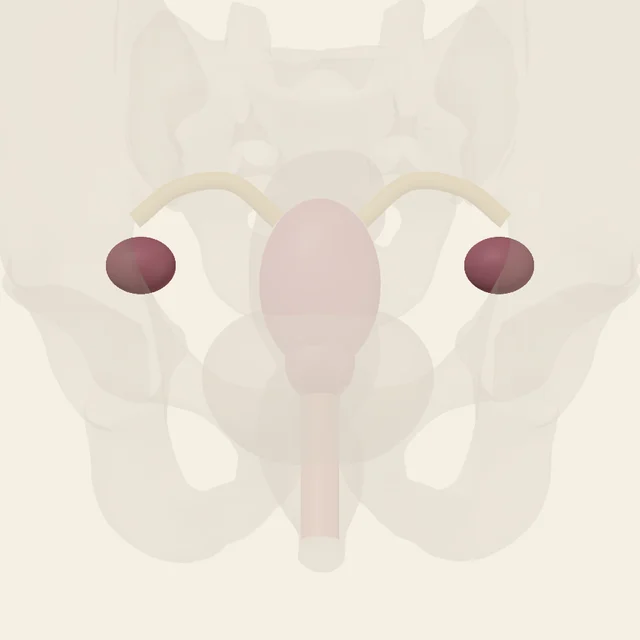
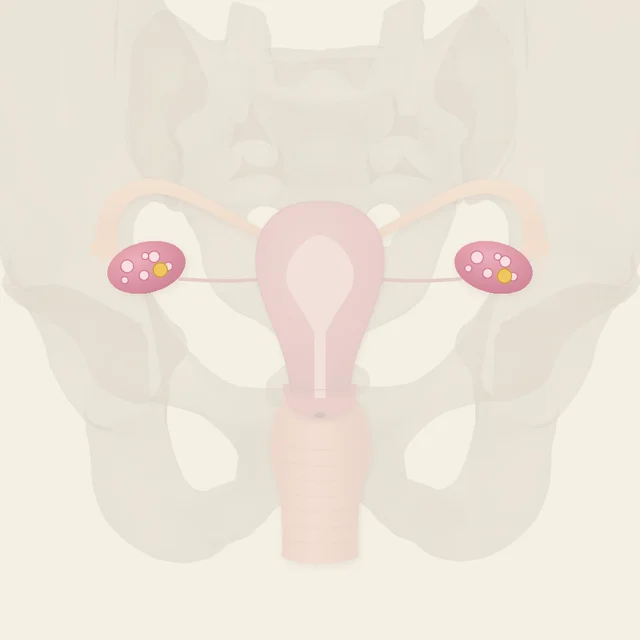
Aparato reproductor: aparato femenino rehecho como ilustración anatómica (útero con cavidad, trompas con fimbrias, ovarios con folículos, vagina)
Claude-Session: https://claude.ai/code/session_01XAusmCyHUDgTaegH1UnSsU

diff --git a/aparato-reproductor.html b/aparato-reproductor.html
@@ -218,7 +218,7 @@
   </div>
 
   <div class="map-frame">
-<svg id="mapa" xmlns="http://www.w3.org/2000/svg" viewBox="0 0 3250 1383" width="3250" height="1383" role="img" aria-label="Aparato reproductor humano, masculino y femenino"><rect x="0" y="0" width="3250" height="1383" fill="#F5EFE4"/><g id="dibujo"><rect x="686" y="126" width="928" height="1211" rx="12" fill="#F8F2E7" stroke="#a98c75" stroke-width="2"/><image href="aparato-reproductor-masculino.webp" x="700" y="140" width="900" height="1183"/><rect x="1726" y="126" width="928" height="1211" rx="12" fill="#F8F2E7" stroke="#a98c75" stroke-width="2"/><image href="aparato-reproductor-femenino.webp" x="1740" y="140" width="900" height="1183"/><text class="cap" x="1150" y="92" text-anchor="middle">Aparato reproductor masculino</text><text class="cap" x="2190" y="92" text-anchor="middle">Aparato reproductor femenino (esquema)</text></g><g id="hitzones"><path class="organo" data-cat="rp-masc" data-name="Pene" d="M 1272.0 883.0 L 1266.0 921.0 L 1288.0 918.0 L 1281.0 910.0 L 1287.0 899.0 L 1287.0 895.0 L 1281.0 888.0 Z M 1027.0 879.0 L 1021.0 882.0 L 1020.0 881.0 L 1018.0 884.0 L 1017.0 883.0 L 1009.0 889.0 L 1006.0 894.0 L 1006.0 902.0 L 1011.0 911.0 L 1005.0 918.0 L 1019.0 921.0 L 1033.0 921.0 Z M 1143.0 797.0 L 1125.0 803.0 L 1111.0 811.0 L 1085.0 835.0 L 1077.0 851.0 L 1073.0 855.0 L 1059.0 862.0 L 1057.0 861.0 L 1049.0 867.0 L 1041.0 869.0 L 1041.0 875.0 L 1049.0 921.0 L 1071.0 919.0 L 1091.0 912.0 L 1095.0 914.0 L 1096.0 960.0 L 1100.0 989.0 L 1101.0 1031.0 L 1084.0 1041.0 L 1080.0 1053.0 L 1080.0 1064.0 L 1089.0 1088.0 L 1097.0 1126.0 L 1104.0 1140.0 L 1116.0 1152.0 L 1135.0 1161.0 L 1151.0 1162.0 L 1162.0 1160.0 L 1176.0 1153.0 L 1185.0 1145.0 L 1193.0 1134.0 L 1199.0 1115.0 L 1203.0 1092.0 L 1213.0 1065.0 L 1213.0 1052.0 L 1209.0 1041.0 L 1192.0 1031.0 L 1198.0 916.0 L 1202.0 912.0 L 1222.0 919.0 L 1250.0 921.0 L 1258.0 873.0 L 1221.0 856.0 L 1217.0 852.0 L 1212.0 839.0 L 1202.0 826.0 L 1183.0 808.0 L 1163.0 799.0 Z" transform="matrix(1,0,0,1,0,0)" fill="transparent" fill-rule="evenodd"/><path class="organo" data-cat="rp-fem" data-name="Útero" d="M 2183.0 419.0 L 2167.0 423.0 L 2152.0 431.0 L 2138.0 443.0 L 2123.0 464.0 L 2111.0 492.0 L 2105.0 523.0 L 2105.0 557.0 L 2110.0 584.0 L 2115.0 599.0 L 2125.0 619.0 L 2141.0 639.0 L 2142.0 664.0 L 2153.0 687.0 L 2162.0 696.0 L 2169.0 693.0 L 2185.0 691.0 L 2204.0 692.0 L 2217.0 696.0 L 2226.0 687.0 L 2234.0 673.0 L 2238.0 658.0 L 2238.0 639.0 L 2248.0 628.0 L 2257.0 614.0 L 2269.0 584.0 L 2274.0 557.0 L 2274.0 523.0 L 2271.0 504.0 L 2263.0 478.0 L 2253.0 459.0 L 2241.0 443.0 L 2227.0 431.0 L 2212.0 423.0 L 2196.0 419.0 Z" transform="matrix(1,0,0,1,0,0)" fill="transparent" fill-rule="evenodd"/><path class="organo" data-cat="rp-masc" data-name="Conductos deferentes" d="M 1311.0 594.0 L 1302.0 595.0 L 1295.0 600.0 L 1266.0 630.0 L 1233.0 676.0 L 1180.0 756.0 L 1193.0 769.0 L 1200.0 773.0 L 1210.0 763.0 L 1262.0 684.0 L 1292.0 643.0 L 1293.0 649.0 L 1280.0 709.0 L 1251.0 864.0 L 1242.0 921.0 L 1237.0 967.0 L 1230.0 1076.0 L 1239.0 1085.0 L 1247.0 1086.0 L 1252.0 1089.0 L 1261.0 1080.0 L 1268.0 972.0 L 1276.0 904.0 L 1328.0 627.0 L 1328.0 614.0 L 1326.0 608.0 Z M 1292.0 642.0 L 1293.0 641.0 L 1294.0 643.0 L 1293.0 644.0 Z M 988.0 594.0 L 972.0 610.0 L 972.0 635.0 L 987.0 707.0 L 1023.0 904.0 L 1032.0 984.0 L 1038.0 1077.0 L 1047.0 1086.0 L 1060.0 1086.0 L 1069.0 1077.0 L 1058.0 929.0 L 1042.0 831.0 L 1006.0 644.0 L 1007.0 643.0 L 1016.0 654.0 L 1089.0 763.0 L 1099.0 773.0 L 1106.0 769.0 L 1119.0 756.0 L 1066.0 676.0 L 1033.0 630.0 L 1004.0 600.0 L 997.0 595.0 Z M 1005.0 642.0 L 1006.0 641.0 L 1007.0 643.0 L 1006.0 644.0 Z" transform="matrix(1,0,0,1,0,0)" fill="transparent" fill-rule="evenodd"/><path class="organo" data-cat="rp-masc" data-name="Testículos" d="M 1251.0 1118.0 L 1206.0 1119.0 L 1197.0 1126.0 L 1186.0 1143.0 L 1179.0 1171.0 L 1180.0 1199.0 L 1186.0 1214.0 L 1196.0 1229.0 L 1207.0 1240.0 L 1216.0 1245.0 L 1228.0 1247.0 L 1250.0 1240.0 L 1267.0 1222.0 L 1276.0 1204.0 L 1279.0 1185.0 L 1276.0 1149.0 L 1265.0 1127.0 L 1258.0 1120.0 Z M 1031.0 1117.0 L 1018.0 1130.0 L 1010.0 1150.0 L 1007.0 1162.0 L 1009.0 1199.0 L 1015.0 1216.0 L 1024.0 1228.0 L 1033.0 1236.0 L 1051.0 1245.0 L 1072.0 1243.0 L 1082.0 1236.0 L 1094.0 1223.0 L 1104.0 1204.0 L 1107.0 1188.0 L 1105.0 1157.0 L 1093.0 1129.0 L 1082.0 1117.0 Z" transform="matrix(1,0,0,1,0,0)" fill="transparent" fill-rule="evenodd"/><path class="organo" data-cat="rp-masc" data-name="Vesículas seminales" d="M 1300.0 666.0 L 1297.0 663.0 L 1292.0 663.0 L 1289.0 661.0 L 1281.0 661.0 L 1265.0 666.0 L 1251.0 684.0 L 1201.0 760.0 L 1198.0 761.0 L 1191.0 756.0 L 1242.0 680.0 L 1238.0 677.0 L 1219.0 692.0 L 1172.0 740.0 L 1168.0 746.0 L 1166.0 756.0 L 1161.0 764.0 L 1158.0 780.0 L 1161.0 783.0 L 1185.0 787.0 L 1213.0 778.0 L 1237.0 763.0 L 1242.0 758.0 L 1247.0 748.0 L 1260.0 744.0 L 1273.0 732.0 L 1280.0 719.0 L 1290.0 708.0 L 1294.0 698.0 Z M 999.0 665.0 L 1008.0 714.0 L 1014.0 720.0 L 1021.0 733.0 L 1029.0 741.0 L 1035.0 745.0 L 1046.0 748.0 L 1049.0 755.0 L 1055.0 762.0 L 1081.0 778.0 L 1108.0 787.0 L 1132.0 783.0 L 1135.0 780.0 L 1133.0 767.0 L 1127.0 756.0 L 1125.0 746.0 L 1122.0 741.0 L 1066.0 685.0 L 1063.0 688.0 L 1108.0 756.0 L 1101.0 761.0 L 1098.0 760.0 L 1036.0 668.0 L 1012.0 661.0 L 1005.0 661.0 Z" transform="matrix(1,0,0,1,0,0)" fill="transparent" fill-rule="evenodd"/><path class="organo" data-cat="rp-fem" data-name="Ovarios" d="M 2407.0 480.0 L 2392.0 497.0 L 2389.0 506.0 L 2389.0 520.0 L 2394.0 532.0 L 2412.0 549.0 L 2430.0 556.0 L 2453.0 556.0 L 2471.0 549.0 L 2489.0 532.0 L 2494.0 520.0 L 2493.0 502.0 L 2487.0 491.0 L 2470.0 476.0 L 2455.0 470.0 L 2434.0 469.0 L 2419.0 473.0 Z M 1903.0 480.0 L 1888.0 497.0 L 1885.0 506.0 L 1885.0 520.0 L 1890.0 532.0 L 1908.0 549.0 L 1926.0 556.0 L 1949.0 556.0 L 1967.0 549.0 L 1985.0 532.0 L 1990.0 520.0 L 1989.0 502.0 L 1983.0 491.0 L 1966.0 476.0 L 1951.0 470.0 L 1930.0 469.0 L 1915.0 473.0 Z" transform="matrix(1,0,0,1,0,0)" fill="transparent" fill-rule="evenodd"/><path class="organo" data-cat="rp-masc" data-name="Próstata" d="M 1082.0 792.0 L 1075.0 799.0 L 1067.0 812.0 L 1065.0 818.0 L 1067.0 833.0 L 1076.0 849.0 L 1092.0 865.0 L 1105.0 874.0 L 1122.0 882.0 L 1130.0 884.0 L 1163.0 884.0 L 1174.0 881.0 L 1200.0 866.0 L 1217.0 849.0 L 1227.0 831.0 L 1227.0 814.0 L 1219.0 800.0 L 1205.0 788.0 L 1187.0 781.0 L 1146.0 775.0 L 1106.0 781.0 Z" transform="matrix(1,0,0,1,0,0)" fill="transparent" fill-rule="evenodd"/><path class="organo" data-cat="rp-fem" data-name="Trompas uterinas" d="M 2232.0 441.0 L 2240.0 452.0 L 2256.0 468.0 L 2296.0 430.0 L 2308.0 421.0 L 2319.0 416.0 L 2330.0 414.0 L 2353.0 415.0 L 2371.0 419.0 L 2396.0 429.0 L 2443.0 468.0 L 2467.0 440.0 L 2421.0 399.0 L 2398.0 385.0 L 2361.0 374.0 L 2329.0 372.0 L 2312.0 375.0 L 2293.0 384.0 L 2268.0 405.0 Z M 2147.0 441.0 L 2111.0 405.0 L 2086.0 384.0 L 2070.0 376.0 L 2050.0 372.0 L 2018.0 374.0 L 1981.0 385.0 L 1958.0 399.0 L 1912.0 440.0 L 1936.0 468.0 L 1983.0 429.0 L 2008.0 419.0 L 2026.0 415.0 L 2049.0 414.0 L 2060.0 416.0 L 2071.0 421.0 L 2083.0 430.0 L 2123.0 468.0 L 2139.0 452.0 Z" transform="matrix(1,0,0,1,0,0)" fill="transparent" fill-rule="evenodd"/><path class="organo" data-cat="rp-fem" data-name="Vagina" d="M 2185.0 689.0 L 2169.0 691.0 L 2160.0 697.0 L 2160.0 900.0 L 2165.0 905.0 L 2172.0 907.0 L 2199.0 908.0 L 2214.0 905.0 L 2219.0 900.0 L 2219.0 697.0 L 2210.0 691.0 Z" transform="matrix(1,0,0,1,0,0)" fill="transparent" fill-rule="evenodd"/><path class="organo" data-cat="rp-masc" data-name="Epidídimos" d="M 1023.0 1086.0 L 1018.0 1097.0 L 1016.0 1118.0 L 1018.0 1125.0 L 1024.0 1131.0 L 1035.0 1125.0 L 1043.0 1127.0 L 1054.0 1125.0 L 1065.0 1127.0 L 1082.0 1126.0 L 1088.0 1120.0 L 1086.0 1097.0 L 1063.0 1072.0 L 1038.0 1073.0 Z M 1261.0 1083.0 L 1253.0 1075.0 L 1243.0 1071.0 L 1218.0 1075.0 L 1202.0 1092.0 L 1197.0 1108.0 L 1197.0 1124.0 L 1203.0 1130.0 L 1206.0 1128.0 L 1251.0 1127.0 L 1262.0 1132.0 L 1269.0 1125.0 L 1270.0 1121.0 L 1269.0 1100.0 Z" transform="matrix(1,0,0,1,0,0)" fill="transparent" fill-rule="evenodd"/></g><g id="nombres"><polyline class="leader" points="680.0,600.0 990.0,612.0"/><circle class="leader-dot" cx="990.0" cy="612.0" r="5"/><text class="olabel" data-cat="rp-masc" data-name="Conductos deferentes" x="670" y="612.0" text-anchor="end">Conductos deferentes</text><polyline class="leader" points="680.0,705.0 1040.0,717.0"/><circle class="leader-dot" cx="1040.0" cy="717.0" r="5"/><text class="olabel" data-cat="rp-masc" data-name="Vesículas seminales" x="670" y="717.0" text-anchor="end">Vesículas seminales</text><polyline class="leader" points="680.0,818.0 1148.0,830.0"/><circle class="leader-dot" cx="1148.0" cy="830.0" r="5"/><text class="olabel" data-cat="rp-masc" data-name="Próstata" x="670" y="830.0" text-anchor="end">Próstata</text><polyline class="leader" points="680.0,1059.0 1147.0,1071.0"/><circle class="leader-dot" cx="1147.0" cy="1071.0" r="5"/><text class="olabel" data-cat="rp-masc" data-name="Pene" x="670" y="1071.0" text-anchor="end">Pene</text><polyline class="leader" points="680.0,1143.0 1048.0,1099.0"/><circle class="leader-dot" cx="1048.0" cy="1099.0" r="5"/><text class="olabel" data-cat="rp-masc" data-name="Epidídimos" x="670" y="1155.0" text-anchor="end">Epidídimos</text><polyline class="leader" points="680.0,1227.0 1057.0,1178.0"/><circle class="leader-dot" cx="1057.0" cy="1178.0" r="5"/><text class="olabel" data-cat="rp-masc" data-name="Testículos" x="670" y="1239.0" text-anchor="end">Testículos</text><polyline class="leader" points="2660.0,381.0 2333.0,393.0"/><circle class="leader-dot" cx="2333.0" cy="393.0" r="5"/><text class="olabel" data-cat="rp-fem" data-name="Trompas uterinas" x="2670" y="393.0" text-anchor="start">Trompas uterinas</text><polyline class="leader" points="2660.0,501.0 2441.0,513.0"/><circle class="leader-dot" cx="2441.0" cy="513.0" r="5"/><text class="olabel" data-cat="rp-fem" data-name="Ovarios" x="2670" y="513.0" text-anchor="start">Ovarios</text><polyline class="leader" points="2660.0,585.0 2189.0,535.0"/><circle class="leader-dot" cx="2189.0" cy="535.0" r="5"/><text class="olabel" data-cat="rp-fem" data-name="Útero" x="2670" y="597.0" text-anchor="start">Útero</text><polyline class="leader" points="2660.0,707.0 2189.0,719.0"/><circle class="leader-dot" cx="2189.0" cy="719.0" r="5"/><text class="olabel" data-cat="rp-fem" data-name="Vagina" x="2670" y="719.0" text-anchor="start">Vagina</text></g></svg>
+<svg id="mapa" xmlns="http://www.w3.org/2000/svg" viewBox="0 0 3250 1383" width="3250" height="1383" role="img" aria-label="Aparato reproductor humano, masculino y femenino"><rect x="0" y="0" width="3250" height="1383" fill="#F5EFE4"/><g id="dibujo"><rect x="686" y="126" width="928" height="1211" rx="12" fill="#F8F2E7" stroke="#a98c75" stroke-width="2"/><svg x="700" y="140" width="900" height="1183" viewBox="0 0 900 1183"><image href="aparato-reproductor-masculino.webp" x="0" y="0" width="900" height="1183"/></svg><rect x="1726" y="126" width="928" height="888" rx="12" fill="#F8F2E7" stroke="#a98c75" stroke-width="2"/><svg x="1740" y="140" width="900" height="860" viewBox="0 0 900 860"><image href="aparato-reproductor-femenino.webp" x="0" y="0" width="900" height="1183"/></svg><text class="cap" x="1150" y="92" text-anchor="middle">Aparato reproductor masculino</text><text class="cap" x="2190" y="92" text-anchor="middle">Aparato reproductor femenino (ilustración)</text></g><g id="hitzones"><path class="organo" data-cat="rp-masc" data-name="Pene" d="M 1272.0 883.0 L 1266.0 921.0 L 1288.0 918.0 L 1281.0 910.0 L 1287.0 899.0 L 1287.0 895.0 L 1281.0 888.0 Z M 1027.0 879.0 L 1021.0 882.0 L 1020.0 881.0 L 1018.0 884.0 L 1017.0 883.0 L 1009.0 889.0 L 1006.0 894.0 L 1006.0 902.0 L 1011.0 911.0 L 1005.0 918.0 L 1019.0 921.0 L 1033.0 921.0 Z M 1143.0 797.0 L 1125.0 803.0 L 1111.0 811.0 L 1085.0 835.0 L 1077.0 851.0 L 1073.0 855.0 L 1059.0 862.0 L 1057.0 861.0 L 1049.0 867.0 L 1041.0 869.0 L 1041.0 875.0 L 1049.0 921.0 L 1071.0 919.0 L 1091.0 912.0 L 1095.0 914.0 L 1096.0 960.0 L 1100.0 989.0 L 1101.0 1031.0 L 1084.0 1041.0 L 1080.0 1053.0 L 1080.0 1064.0 L 1089.0 1088.0 L 1097.0 1126.0 L 1104.0 1140.0 L 1116.0 1152.0 L 1135.0 1161.0 L 1151.0 1162.0 L 1162.0 1160.0 L 1176.0 1153.0 L 1185.0 1145.0 L 1193.0 1134.0 L 1199.0 1115.0 L 1203.0 1092.0 L 1213.0 1065.0 L 1213.0 1052.0 L 1209.0 1041.0 L 1192.0 1031.0 L 1198.0 916.0 L 1202.0 912.0 L 1222.0 919.0 L 1250.0 921.0 L 1258.0 873.0 L 1221.0 856.0 L 1217.0 852.0 L 1212.0 839.0 L 1202.0 826.0 L 1183.0 808.0 L 1163.0 799.0 Z" transform="matrix(1,0,0,1,0,0)" fill="transparent" fill-rule="evenodd"/><path class="organo" data-cat="rp-fem" data-name="Útero" d="M 2171.0 424.0 L 2154.0 427.0 L 2137.0 434.0 L 2122.0 445.0 L 2115.0 453.0 L 2110.0 462.0 L 2131.0 470.0 L 2133.0 475.0 L 2129.0 483.0 L 2105.0 474.0 L 2100.0 492.0 L 2100.0 521.0 L 2106.0 549.0 L 2133.0 620.0 L 2142.0 649.0 L 2147.0 676.0 L 2145.0 680.0 L 2138.0 680.0 L 2139.0 693.0 L 2142.0 703.0 L 2153.0 718.0 L 2165.0 725.0 L 2182.0 729.0 L 2197.0 729.0 L 2208.0 727.0 L 2220.0 722.0 L 2229.0 715.0 L 2237.0 703.0 L 2240.0 693.0 L 2241.0 680.0 L 2234.0 680.0 L 2232.0 678.0 L 2233.0 667.0 L 2241.0 635.0 L 2265.0 573.0 L 2276.0 538.0 L 2279.0 520.0 L 2279.0 493.0 L 2274.0 474.0 L 2253.0 483.0 L 2248.0 481.0 L 2245.0 473.0 L 2248.0 470.0 L 2263.0 465.0 L 2269.0 461.0 L 2263.0 452.0 L 2245.0 436.0 L 2228.0 428.0 L 2215.0 425.0 Z" transform="matrix(1,0,0,1,0,0)" fill="transparent" fill-rule="evenodd"/><path class="organo" data-cat="rp-fem" data-name="Vagina" d="M 2139.0 698.0 L 2133.0 706.0 L 2122.0 732.0 L 2117.0 767.0 L 2120.0 795.0 L 2130.0 826.0 L 2134.0 883.0 L 2133.0 921.0 L 2137.0 925.0 L 2146.0 929.0 L 2172.0 934.0 L 2207.0 934.0 L 2233.0 929.0 L 2242.0 925.0 L 2246.0 921.0 L 2245.0 880.0 L 2249.0 825.0 L 2251.0 816.0 L 2256.0 806.0 L 2261.0 783.0 L 2261.0 753.0 L 2259.0 740.0 L 2252.0 718.0 L 2245.0 704.0 L 2239.0 698.0 L 2227.0 715.0 L 2214.0 723.0 L 2197.0 727.0 L 2176.0 726.0 L 2165.0 723.0 L 2153.0 716.0 L 2143.0 701.0 Z" transform="matrix(1,0,0,1,0,0)" fill="transparent" fill-rule="evenodd"/><path class="organo" data-cat="rp-masc" data-name="Conductos deferentes" d="M 1311.0 594.0 L 1302.0 595.0 L 1295.0 600.0 L 1266.0 630.0 L 1233.0 676.0 L 1180.0 756.0 L 1193.0 769.0 L 1200.0 773.0 L 1210.0 763.0 L 1262.0 684.0 L 1292.0 643.0 L 1293.0 649.0 L 1280.0 709.0 L 1251.0 864.0 L 1242.0 921.0 L 1237.0 967.0 L 1230.0 1076.0 L 1239.0 1085.0 L 1247.0 1086.0 L 1252.0 1089.0 L 1261.0 1080.0 L 1268.0 972.0 L 1276.0 904.0 L 1328.0 627.0 L 1328.0 614.0 L 1326.0 608.0 Z M 1292.0 642.0 L 1293.0 641.0 L 1294.0 643.0 L 1293.0 644.0 Z M 988.0 594.0 L 972.0 610.0 L 972.0 635.0 L 987.0 707.0 L 1023.0 904.0 L 1032.0 984.0 L 1038.0 1077.0 L 1047.0 1086.0 L 1060.0 1086.0 L 1069.0 1077.0 L 1058.0 929.0 L 1042.0 831.0 L 1006.0 644.0 L 1007.0 643.0 L 1016.0 654.0 L 1089.0 763.0 L 1099.0 773.0 L 1106.0 769.0 L 1119.0 756.0 L 1066.0 676.0 L 1033.0 630.0 L 1004.0 600.0 L 997.0 595.0 Z M 1005.0 642.0 L 1006.0 641.0 L 1007.0 643.0 L 1006.0 644.0 Z" transform="matrix(1,0,0,1,0,0)" fill="transparent" fill-rule="evenodd"/><path class="organo" data-cat="rp-masc" data-name="Testículos" d="M 1251.0 1118.0 L 1206.0 1119.0 L 1197.0 1126.0 L 1186.0 1143.0 L 1179.0 1171.0 L 1180.0 1199.0 L 1186.0 1214.0 L 1196.0 1229.0 L 1207.0 1240.0 L 1216.0 1245.0 L 1228.0 1247.0 L 1250.0 1240.0 L 1267.0 1222.0 L 1276.0 1204.0 L 1279.0 1185.0 L 1276.0 1149.0 L 1265.0 1127.0 L 1258.0 1120.0 Z M 1031.0 1117.0 L 1018.0 1130.0 L 1010.0 1150.0 L 1007.0 1162.0 L 1009.0 1199.0 L 1015.0 1216.0 L 1024.0 1228.0 L 1033.0 1236.0 L 1051.0 1245.0 L 1072.0 1243.0 L 1082.0 1236.0 L 1094.0 1223.0 L 1104.0 1204.0 L 1107.0 1188.0 L 1105.0 1157.0 L 1093.0 1129.0 L 1082.0 1117.0 Z" transform="matrix(1,0,0,1,0,0)" fill="transparent" fill-rule="evenodd"/><path class="organo" data-cat="rp-fem" data-name="Trompas uterinas" d="M 2526.0 501.0 L 2520.0 491.0 L 2523.0 487.0 L 2513.0 475.0 L 2513.0 462.0 L 2510.0 447.0 L 2498.0 422.0 L 2476.0 399.0 L 2469.0 394.0 L 2455.0 387.0 L 2438.0 383.0 L 2412.0 384.0 L 2377.0 395.0 L 2347.0 410.0 L 2291.0 443.0 L 2263.0 457.0 L 2246.0 463.0 L 2237.0 472.0 L 2240.0 482.0 L 2249.0 491.0 L 2253.0 491.0 L 2287.0 477.0 L 2337.0 450.0 L 2386.0 427.0 L 2407.0 421.0 L 2431.0 420.0 L 2443.0 423.0 L 2453.0 428.0 L 2461.0 438.0 L 2467.0 459.0 L 2466.0 476.0 L 2469.0 479.0 L 2465.0 483.0 L 2461.0 493.0 L 2480.0 511.0 L 2482.0 510.0 L 2485.0 513.0 L 2486.0 512.0 L 2496.0 523.0 L 2505.0 514.0 L 2505.0 509.0 L 2507.0 507.0 L 2517.0 510.0 Z M 1853.0 501.0 L 1862.0 510.0 L 1872.0 507.0 L 1874.0 514.0 L 1883.0 523.0 L 1893.0 512.0 L 1894.0 513.0 L 1897.0 510.0 L 1899.0 511.0 L 1918.0 493.0 L 1914.0 483.0 L 1910.0 479.0 L 1913.0 476.0 L 1913.0 452.0 L 1919.0 436.0 L 1926.0 428.0 L 1936.0 423.0 L 1948.0 420.0 L 1972.0 421.0 L 1993.0 427.0 L 2042.0 450.0 L 2092.0 477.0 L 2126.0 491.0 L 2129.0 491.0 L 2139.0 481.0 L 2142.0 472.0 L 2133.0 463.0 L 2116.0 457.0 L 2088.0 443.0 L 2032.0 410.0 L 2002.0 395.0 L 1967.0 384.0 L 1941.0 383.0 L 1924.0 387.0 L 1910.0 394.0 L 1903.0 399.0 L 1881.0 422.0 L 1869.0 447.0 L 1866.0 462.0 L 1866.0 475.0 L 1856.0 487.0 L 1859.0 491.0 Z" transform="matrix(1,0,0,1,0,0)" fill="transparent" fill-rule="evenodd"/><path class="organo" data-cat="rp-masc" data-name="Vesículas seminales" d="M 1300.0 666.0 L 1297.0 663.0 L 1292.0 663.0 L 1289.0 661.0 L 1281.0 661.0 L 1265.0 666.0 L 1251.0 684.0 L 1201.0 760.0 L 1198.0 761.0 L 1191.0 756.0 L 1242.0 680.0 L 1238.0 677.0 L 1219.0 692.0 L 1172.0 740.0 L 1168.0 746.0 L 1166.0 756.0 L 1161.0 764.0 L 1158.0 780.0 L 1161.0 783.0 L 1185.0 787.0 L 1213.0 778.0 L 1237.0 763.0 L 1242.0 758.0 L 1247.0 748.0 L 1260.0 744.0 L 1273.0 732.0 L 1280.0 719.0 L 1290.0 708.0 L 1294.0 698.0 Z M 999.0 665.0 L 1008.0 714.0 L 1014.0 720.0 L 1021.0 733.0 L 1029.0 741.0 L 1035.0 745.0 L 1046.0 748.0 L 1049.0 755.0 L 1055.0 762.0 L 1081.0 778.0 L 1108.0 787.0 L 1132.0 783.0 L 1135.0 780.0 L 1133.0 767.0 L 1127.0 756.0 L 1125.0 746.0 L 1122.0 741.0 L 1066.0 685.0 L 1063.0 688.0 L 1108.0 756.0 L 1101.0 761.0 L 1098.0 760.0 L 1036.0 668.0 L 1012.0 661.0 L 1005.0 661.0 Z" transform="matrix(1,0,0,1,0,0)" fill="transparent" fill-rule="evenodd"/><path class="organo" data-cat="rp-fem" data-name="Ovarios" d="M 2375.0 503.0 L 2375.0 512.0 L 2378.0 521.0 L 2395.0 540.0 L 2412.0 550.0 L 2428.0 555.0 L 2456.0 556.0 L 2470.0 552.0 L 2477.0 548.0 L 2488.0 537.0 L 2492.0 527.0 L 2492.0 519.0 L 2487.0 507.0 L 2472.0 491.0 L 2455.0 481.0 L 2439.0 476.0 L 2411.0 475.0 L 2397.0 479.0 L 2390.0 483.0 L 2379.0 494.0 Z M 2000.0 494.0 L 1989.0 483.0 L 1977.0 477.0 L 1968.0 475.0 L 1946.0 475.0 L 1936.0 477.0 L 1914.0 486.0 L 1894.0 504.0 L 1888.0 515.0 L 1887.0 528.0 L 1891.0 537.0 L 1902.0 548.0 L 1909.0 552.0 L 1923.0 556.0 L 1945.0 556.0 L 1955.0 554.0 L 1975.0 546.0 L 1984.0 540.0 L 1997.0 527.0 L 2004.0 512.0 L 2004.0 503.0 Z" transform="matrix(1,0,0,1,0,0)" fill="transparent" fill-rule="evenodd"/><path class="organo" data-cat="rp-masc" data-name="Próstata" d="M 1082.0 792.0 L 1075.0 799.0 L 1067.0 812.0 L 1065.0 818.0 L 1067.0 833.0 L 1076.0 849.0 L 1092.0 865.0 L 1105.0 874.0 L 1122.0 882.0 L 1130.0 884.0 L 1163.0 884.0 L 1174.0 881.0 L 1200.0 866.0 L 1217.0 849.0 L 1227.0 831.0 L 1227.0 814.0 L 1219.0 800.0 L 1205.0 788.0 L 1187.0 781.0 L 1146.0 775.0 L 1106.0 781.0 Z" transform="matrix(1,0,0,1,0,0)" fill="transparent" fill-rule="evenodd"/><path class="organo" data-cat="rp-masc" data-name="Epidídimos" d="M 1023.0 1086.0 L 1018.0 1097.0 L 1016.0 1118.0 L 1018.0 1125.0 L 1024.0 1131.0 L 1035.0 1125.0 L 1043.0 1127.0 L 1054.0 1125.0 L 1065.0 1127.0 L 1082.0 1126.0 L 1088.0 1120.0 L 1086.0 1097.0 L 1063.0 1072.0 L 1038.0 1073.0 Z M 1261.0 1083.0 L 1253.0 1075.0 L 1243.0 1071.0 L 1218.0 1075.0 L 1202.0 1092.0 L 1197.0 1108.0 L 1197.0 1124.0 L 1203.0 1130.0 L 1206.0 1128.0 L 1251.0 1127.0 L 1262.0 1132.0 L 1269.0 1125.0 L 1270.0 1121.0 L 1269.0 1100.0 Z" transform="matrix(1,0,0,1,0,0)" fill="transparent" fill-rule="evenodd"/></g><g id="nombres"><polyline class="leader" points="680.0,600.0 990.0,612.0"/><circle class="leader-dot" cx="990.0" cy="612.0" r="5"/><text class="olabel" data-cat="rp-masc" data-name="Conductos deferentes" x="670" y="612.0" text-anchor="end">Conductos deferentes</text><polyline class="leader" points="680.0,705.0 1040.0,717.0"/><circle class="leader-dot" cx="1040.0" cy="717.0" r="5"/><text class="olabel" data-cat="rp-masc" data-name="Vesículas seminales" x="670" y="717.0" text-anchor="end">Vesículas seminales</text><polyline class="leader" points="680.0,818.0 1148.0,830.0"/><circle class="leader-dot" cx="1148.0" cy="830.0" r="5"/><text class="olabel" data-cat="rp-masc" data-name="Próstata" x="670" y="830.0" text-anchor="end">Próstata</text><polyline class="leader" points="680.0,1059.0 1147.0,1071.0"/><circle class="leader-dot" cx="1147.0" cy="1071.0" r="5"/><text class="olabel" data-cat="rp-masc" data-name="Pene" x="670" y="1071.0" text-anchor="end">Pene</text><polyline class="leader" points="680.0,1143.0 1048.0,1099.0"/><circle class="leader-dot" cx="1048.0" cy="1099.0" r="5"/><text class="olabel" data-cat="rp-masc" data-name="Epidídimos" x="670" y="1155.0" text-anchor="end">Epidídimos</text><polyline class="leader" points="680.0,1227.0 1057.0,1178.0"/><circle class="leader-dot" cx="1057.0" cy="1178.0" r="5"/><text class="olabel" data-cat="rp-masc" data-name="Testículos" x="670" y="1239.0" text-anchor="end">Testículos</text><polyline class="leader" points="2660.0,474.0 2492.0,486.0"/><circle class="leader-dot" cx="2492.0" cy="486.0" r="5"/><text class="olabel" data-cat="rp-fem" data-name="Trompas uterinas" x="2670" y="486.0" text-anchor="start">Trompas uterinas</text><polyline class="leader" points="2660.0,558.0 2432.0,515.0"/><circle class="leader-dot" cx="2432.0" cy="515.0" r="5"/><text class="olabel" data-cat="rp-fem" data-name="Ovarios" x="2670" y="570.0" text-anchor="start">Ovarios</text><polyline class="leader" points="2660.0,642.0 2189.0,539.0"/><circle class="leader-dot" cx="2189.0" cy="539.0" r="5"/><text class="olabel" data-cat="rp-fem" data-name="Útero" x="2670" y="654.0" text-anchor="start">Útero</text><polyline class="leader" points="2660.0,781.0 2189.0,793.0"/><circle class="leader-dot" cx="2189.0" cy="793.0" r="5"/><text class="olabel" data-cat="rp-fem" data-name="Vagina" x="2670" y="793.0" text-anchor="start">Vagina</text></g></svg>
   </div>
       <div class="meta-row">
       <span class="tag category">BIOLOGÍA</span>
